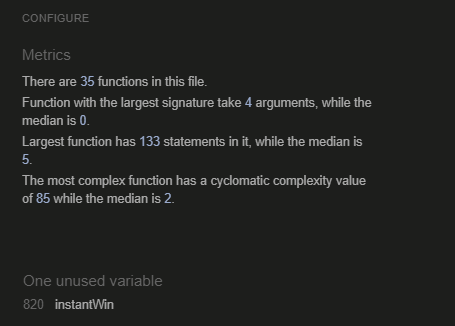
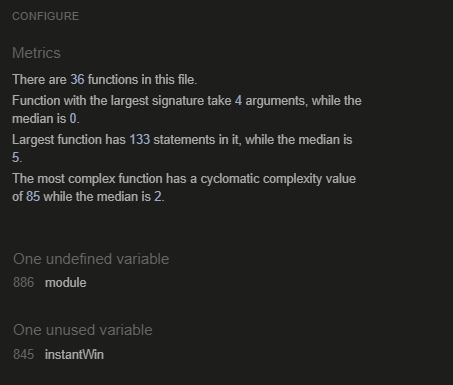
Update jshint screenshot

Changed region(s): [[0.0, 0.1227, 0.8344, 0.7669], [0.0309, 0.8282, 0.3709, 0.9509], [0.0309, 0.0307, 0.1854, 0.092]]

diff --git a/assets/js/tests/game.test.js b/assets/js/tests/game.test.js
@@ -58,9 +58,9 @@ describe("resetGame works correctly", () => {
     // test("seconds should be set to 0", () => {
     //     expect(seconds).toBe(0);
     // });
-    test("boardArr should be empty", () => {
-        expect(boardArr).toHaveLength(0);
-    });
+    // test("boardArr should be empty", () => {
+    //     expect(boardArr).toHaveLength(0);
+    // });
     // test("flatArr should be empty", () => {
     //     expect(flatArr).toHaveLength(0);
     // });

diff --git a/assets/js/game.js b/assets/js/game.js
@@ -78,7 +78,7 @@ $(window).on('resize', function(){ // Event handler for window resize
         // clear the html content
         $(".game-board").empty();
         // Restore original HTML content
-        resetGame() 
+        resetGame();
     }
 });
 

diff --git a/TESTING.md b/TESTING.md
@@ -31,7 +31,7 @@ I have used the recommended [JShint Validator](https://jshint.com) to validate a
 | File     | Screenshot                                                    | Notes                                                                            |
 | -------- | ------------------------------------------------------------- | -------------------------------------------------------------------------------- |
 | index.js | ![screenshot](documentation/validation/js-validation-index.png) | Pass: No Errors                                                                  |
-| game.js  | ![screenshot](documentation/validation/js-validation-game.png)  | Pass: No Errors (the unused variable is a function created for testing purposes) |
+| game.js  | ![screenshot](documentation/validation/js-validation-game.png)  | Pass: No Errors (instantWin and module are for testing purposes) |
 
 ## Browser Compatibility
 
